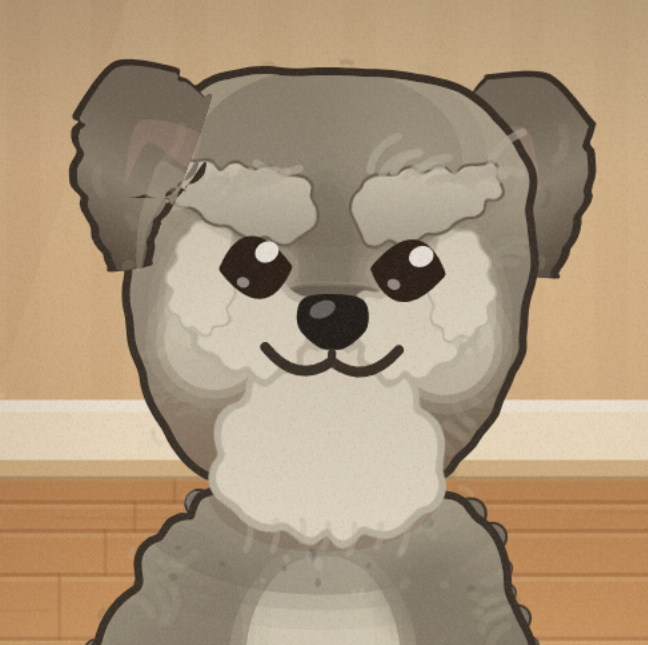
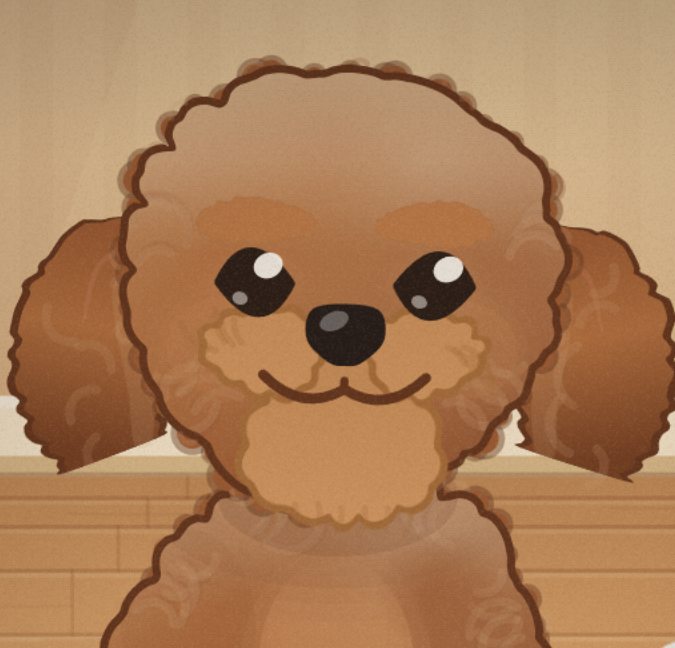
Review page: warm auburn Schnoodle, three-way comparison, open taste questions

diff --git a/review/index.html b/review/index.html
@@ -9,59 +9,71 @@
   :root { --cream:#f6ede1; --ink:#3d3229; --muted:#8a7a68; --card:#fffaf3;
           --accent:#d98b5f; --line:#e6d8c6; }
   *{box-sizing:border-box;-webkit-tap-highlight-color:transparent}
-  body{margin:0 auto;max-width:760px;background:var(--cream);color:var(--ink);
+  body{margin:0 auto;max-width:780px;background:var(--cream);color:var(--ink);
        padding:calc(env(safe-area-inset-top) + 26px) 16px calc(env(safe-area-inset-bottom) + 48px);
-       font:16px/1.5 -apple-system,BlinkMacSystemFont,"Segoe UI",system-ui,sans-serif}
-  h1{font-size:24px;letter-spacing:-.02em;margin:0 0 4px}
-  .sub{color:var(--muted);font-size:15px;margin:0 0 26px}
-  h2{font-size:18px;margin:34px 0 6px;letter-spacing:-.01em}
+       font:16px/1.55 -apple-system,BlinkMacSystemFont,"Segoe UI",system-ui,sans-serif}
+  h1{font-size:25px;letter-spacing:-.02em;margin:0 0 4px}
+  .sub{color:var(--muted);font-size:15px;margin:0 0 28px}
+  h2{font-size:18px;margin:36px 0 6px;letter-spacing:-.01em}
   p{margin:0 0 12px}
   figure{margin:14px 0 0}
-  img{width:100%;height:auto;display:block;border-radius:14px;border:1px solid var(--line);
-      background:#fff}
+  img{width:100%;height:auto;display:block;border-radius:14px;border:1px solid var(--line);background:#fff}
   figcaption{font-size:13.5px;color:var(--muted);margin-top:8px}
   .q{background:rgba(217,139,95,.09);border:1px solid rgba(217,139,95,.28);
-     border-radius:14px;padding:16px 18px;margin:26px 0 0;font-size:15px;color:#7a5c45}
+     border-radius:14px;padding:16px 18px;margin:24px 0 0;font-size:15px;color:#7a5c45}
   .q b{color:#5f4432}
+  .ok{background:rgba(47,125,79,.09);border-color:rgba(47,125,79,.28);color:#2c6344}
+  .ok b{color:#1f4a31}
   .row{display:flex;gap:12px;flex-wrap:wrap}
-  .row figure{flex:1 1 220px;margin:0}
-  a{color:var(--accent)}
+  .row figure{flex:1 1 240px;margin:0}
+  ul{margin:0 0 12px;padding-left:22px}
+  li{margin-bottom:6px}
 </style>
 </head>
 <body>
-<h1>Art review</h1>
-<p class="sub">Two things worth a second opinion from you, since you know the breeds and you know her. Best viewed on a phone.</p>
+<h1>Your Schnoodle, warm and brown</h1>
+<p class="sub">Redone after your feedback. Best viewed on a phone. Two small things at the bottom I'd like your taste on — nothing is blocked waiting for you.</p>
 
-<h2>1. The Schnoodle's eyebrows — before and after</h2>
-<p>The brows used to read as two pale patches <em>stuck onto</em> his face. On a real schnauzer the pale furnishings are continuous — brows, cheeks, moustache and beard are one silver field, and it's the <em>dark</em> that's isolated, as a mask between the eyes. Connecting them fixed it.</p>
+<h2>The change</h2>
 <figure>
-  <img src="schnoodle-brows-before-after.png" alt="Schnoodle face before and after the eyebrow fix">
-  <figcaption>Left: before, isolated pale patches. Right: after, one connected silver field.</figcaption>
+  <img src="three-way.png" alt="Cockapoo, new Schnoodle, and the old grey Schnoodle side by side">
+  <figcaption>Left: the Cockapoo (untouched). Middle: <b>your Schnoodle now</b>. Right: the old grey one you said looked angry.</figcaption>
 </figure>
-<div class="q">
-  <b>The question:</b> he's now noticeably <em>pale-heavy</em> — a lot of cream across the front of his face. It's closer to a real adult schnauzer, but it may read a touch <em>too beardy for a puppy</em>. Should the pale be pulled back a little, or is this right?
+
+<div class="q ok">
+  <b>What was actually making him angry.</b> The eyebrows slanted <i>down toward the middle</i> of his face — which is the strongest anger signal there is in any animal. It turns out that was written on purpose: the note in the code says "a pleased dog lifts the outer brow." True of the <i>movement</i>, but as a resting shape it's a scowl. On top of that the brows cast a shadow onto his eyelids, wore a hard dark outline right above the eye, and were a stark pale patch against grey. Four separate anger cues stacked up. All gone.
 </div>
 
-<h2>2. Both of her dogs, full size</h2>
-<div class="row">
-  <figure>
-    <img src="schnoodle-full.png" alt="The Schnoodle in the room">
-    <figcaption><b>Schnoodle</b> — the gift puppy, waiting unnamed on first launch.</figcaption>
-  </figure>
-  <figure>
-    <img src="cockapoo-full.png" alt="The Cockapoo in the room">
-    <figcaption><b>Cockapoo</b> — the second dog, unlocked by looking after him well.</figcaption>
-  </figure>
-</div>
-
-<h2>3. Close up</h2>
+<h2>His face now</h2>
 <figure>
   <img src="schnoodle-face.png" alt="Schnoodle face close up">
-  <figcaption>The face she'll see every time she opens it.</figcaption>
+  <figcaption>The face she'll see every time she opens it. Bigger, rounder, level eyes set wider and lower, a proper forehead dome, short muzzle, and a smile.</figcaption>
 </figure>
 
+<h2>Him in his room</h2>
+<figure>
+  <img src="schnoodle-full.png" alt="Schnoodle in the room">
+  <figcaption>The auburn also fixes something else — the grey dog visibly sat <i>apart</i> from this warm amber room. He belongs in it now.</figcaption>
+</figure>
+
+<h2>Two things for your taste</h2>
+
 <div class="q">
-  Neither of these blocks anything — I'll keep building either way. But the face is the one thing that's hard to change later, once she's attached to him.
+  <b>1. His eyes.</b> They're big and level now, but the corners come to slight points, so they read a touch geometric next to the Cockapoo's rounder, softer ones. Want me to round them off?
 </div>
+
+<div class="q">
+  <b>2. The curls.</b> The fur texture draws as small squiggles that, on his ears especially, can read a little like tiny handwritten letters rather than curls. Want that toned down?
+</div>
+
+<div class="q">
+  <b>3. Optional — the eyebrows.</b> He currently keeps a very subtle brow tuft. Removing it entirely is the cleanest, roundest dome and closest to your photo, but it loses the last trace of "schnauzer" and makes him read as a plain doodle. Comparison of the options:
+  <figure>
+    <img src="brow-options.png" alt="Four eyebrow tone options compared">
+    <figcaption>Reverting to no brow is a one-line deletion if you prefer it.</figcaption>
+  </figure>
+</div>
+
+<p style="margin-top:26px;color:var(--muted);font-size:14px">For the record: the Shiba and the Cockapoo were verified <b>pixel-for-pixel unchanged</b> across twelve full frames while all this was done — so nothing else in the game shifted.</p>
 </body>
 </html>
